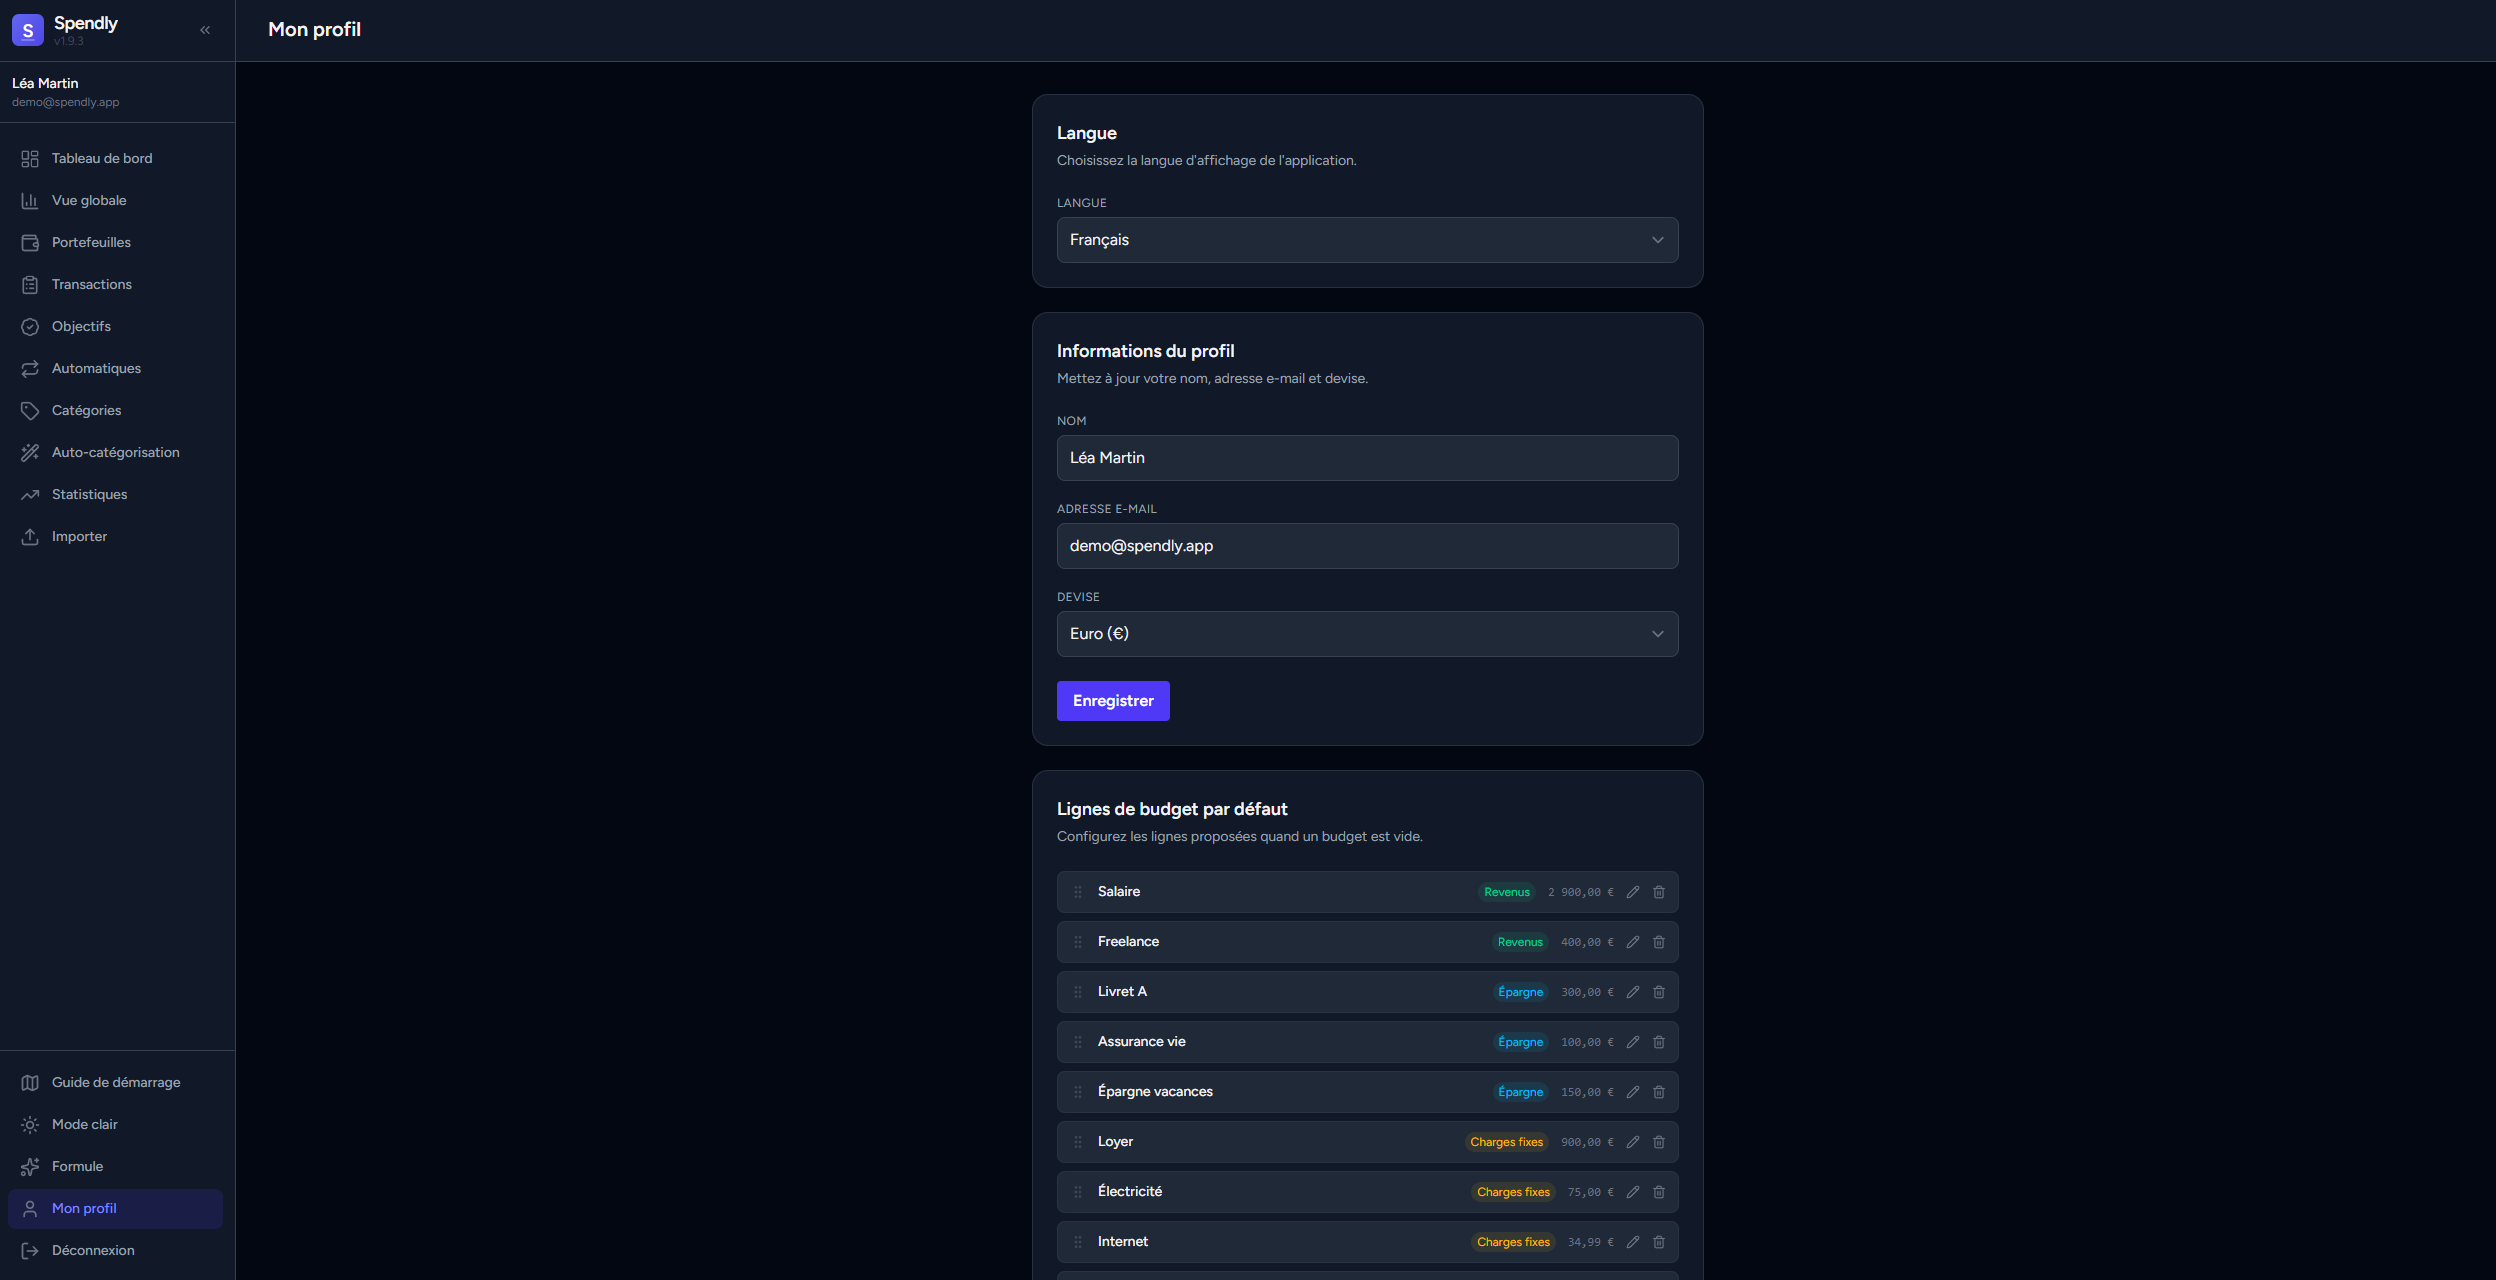
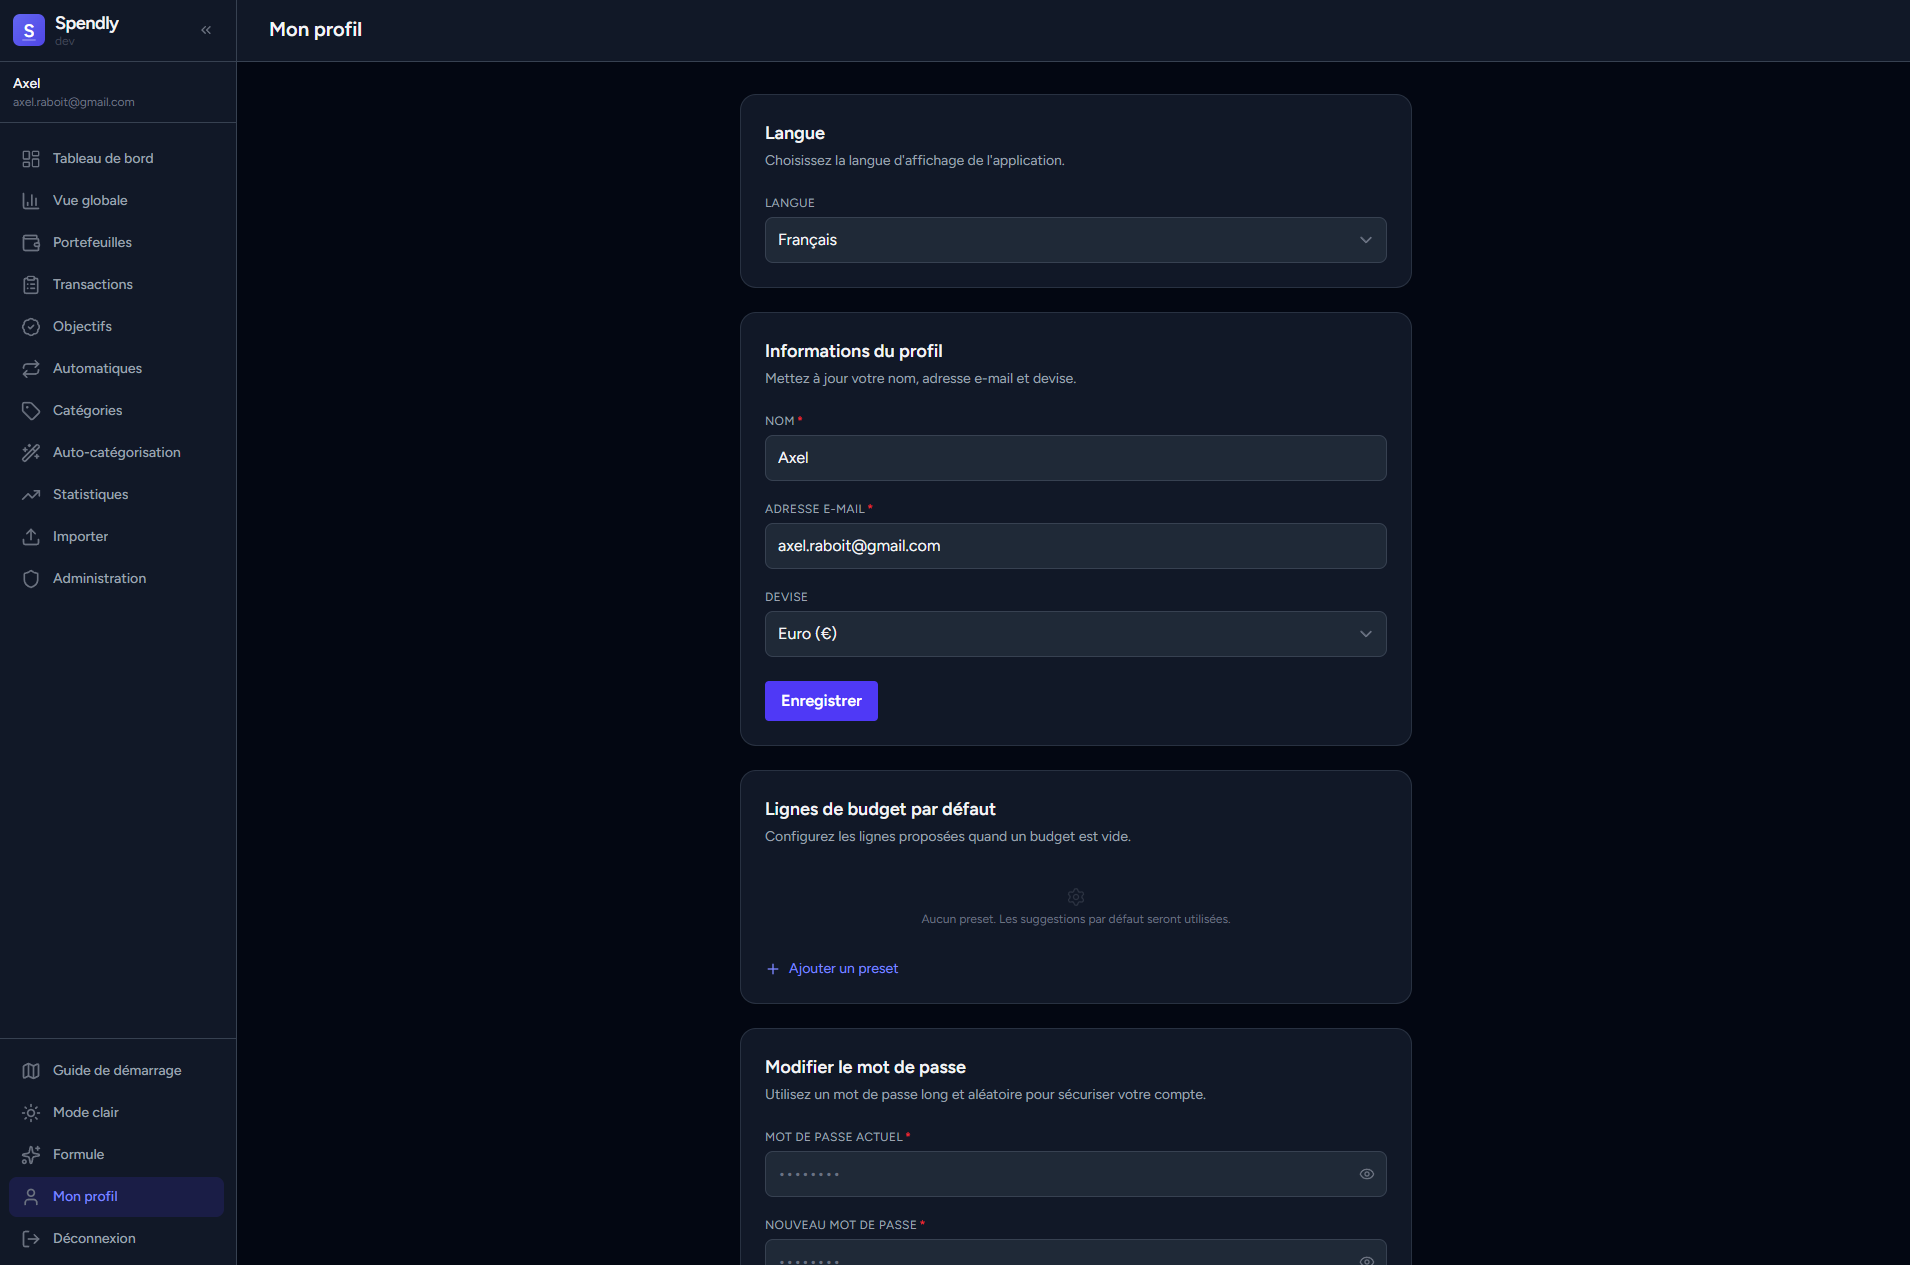
feat: AppInput

diff --git a/resources/js/Pages/Profile/Partials/UpdatePasswordForm.vue b/resources/js/Pages/Profile/Partials/UpdatePasswordForm.vue
@@ -2,16 +2,11 @@
 import { useForm } from '@inertiajs/vue3';
 import { ref } from 'vue';
 import { useI18n } from 'vue-i18n';
-import { Eye, EyeOff } from 'lucide-vue-next';
 
 const { t } = useI18n();
 
 const passwordInput = ref(null);
 const currentPasswordInput = ref(null);
-
-const showCurrent = ref(false);
-const showNew = ref(false);
-const showConfirm = ref(false);
 
 const form = useForm({
     current_password:      '',
@@ -45,64 +40,37 @@ function updatePassword() {
         </header>
 
         <form class="space-y-5" v-on:submit.prevent="updatePassword">
-            <div>
-                <label for="current_password" class="block text-xs text-secondary uppercase tracking-wide mb-1.5">{{ t('profile.password.fieldCurrent') }}</label>
-                <div class="relative">
-                    <input
-                        id="current_password"
-                        ref="currentPasswordInput"
-                        v-model="form.current_password"
-                        :type="showCurrent ? 'text' : 'password'"
-                        autocomplete="current-password"
-                        :placeholder="t('profile.password.fieldPlaceholder')"
-                        class="w-full bg-surface-2 text-primary rounded-lg px-3 py-2.5 pr-10 border border-line focus:border-indigo-500 focus:outline-none"
-                    >
-                    <button type="button" tabindex="-1" class="absolute inset-y-0 right-0 flex items-center pr-3 text-muted hover:text-secondary transition-colors" v-on:click="showCurrent = !showCurrent">
-                        <Eye v-if="!showCurrent" class="w-4 h-4" />
-                        <EyeOff v-else class="w-4 h-4" />
-                    </button>
-                </div>
-                <p v-if="form.errors.current_password" class="mt-1 text-xs text-rose-400">{{ form.errors.current_password }}</p>
-            </div>
+            <AppInput
+                ref="currentPasswordInput"
+                v-model="form.current_password"
+                type="password"
+                :label="t('profile.password.fieldCurrent')"
+                :placeholder="t('profile.password.fieldPlaceholder')"
+                :error="form.errors.current_password"
+                required
+                autocomplete="current-password"
+            />
 
-            <div>
-                <label for="password" class="block text-xs text-secondary uppercase tracking-wide mb-1.5">{{ t('profile.password.fieldNew') }}</label>
-                <div class="relative">
-                    <input
-                        id="password"
-                        ref="passwordInput"
-                        v-model="form.password"
-                        :type="showNew ? 'text' : 'password'"
-                        autocomplete="new-password"
-                        :placeholder="t('profile.password.fieldPlaceholder')"
-                        class="w-full bg-surface-2 text-primary rounded-lg px-3 py-2.5 pr-10 border border-line focus:border-indigo-500 focus:outline-none"
-                    >
-                    <button type="button" tabindex="-1" class="absolute inset-y-0 right-0 flex items-center pr-3 text-muted hover:text-secondary transition-colors" v-on:click="showNew = !showNew">
-                        <Eye v-if="!showNew" class="w-4 h-4" />
-                        <EyeOff v-else class="w-4 h-4" />
-                    </button>
-                </div>
-                <p v-if="form.errors.password" class="mt-1 text-xs text-rose-400">{{ form.errors.password }}</p>
-            </div>
+            <AppInput
+                ref="passwordInput"
+                v-model="form.password"
+                type="password"
+                :label="t('profile.password.fieldNew')"
+                :placeholder="t('profile.password.fieldPlaceholder')"
+                :error="form.errors.password"
+                required
+                autocomplete="new-password"
+            />
 
-            <div>
-                <label for="password_confirmation" class="block text-xs text-secondary uppercase tracking-wide mb-1.5">{{ t('profile.password.fieldConfirm') }}</label>
-                <div class="relative">
-                    <input
-                        id="password_confirmation"
-                        v-model="form.password_confirmation"
-                        :type="showConfirm ? 'text' : 'password'"
-                        autocomplete="new-password"
-                        :placeholder="t('profile.password.fieldPlaceholder')"
-                        class="w-full bg-surface-2 text-primary rounded-lg px-3 py-2.5 pr-10 border border-line focus:border-indigo-500 focus:outline-none"
-                    >
-                    <button type="button" tabindex="-1" class="absolute inset-y-0 right-0 flex items-center pr-3 text-muted hover:text-secondary transition-colors" v-on:click="showConfirm = !showConfirm">
-                        <Eye v-if="!showConfirm" class="w-4 h-4" />
-                        <EyeOff v-else class="w-4 h-4" />
-                    </button>
-                </div>
-                <p v-if="form.errors.password_confirmation" class="mt-1 text-xs text-rose-400">{{ form.errors.password_confirmation }}</p>
-            </div>
+            <AppInput
+                v-model="form.password_confirmation"
+                type="password"
+                :label="t('profile.password.fieldConfirm')"
+                :placeholder="t('profile.password.fieldPlaceholder')"
+                :error="form.errors.password_confirmation"
+                required
+                autocomplete="new-password"
+            />
 
             <div class="flex items-center gap-3 pt-1">
                 <AppButton type="submit" :disabled="form.processing">{{ t('common.save') }}</AppButton>

diff --git a/resources/js/Pages/Profile/Partials/UpdateProfileInformationForm.vue b/resources/js/Pages/Profile/Partials/UpdateProfileInformationForm.vue
@@ -27,34 +27,25 @@ const form = useForm({
         </header>
 
         <form class="space-y-5" v-on:submit.prevent="form.patch(route('profile.update'))">
-            <div>
-                <label for="name" class="block text-xs text-secondary uppercase tracking-wide mb-1.5">{{ t('profile.info.fieldName') }}</label>
-                <input
-                    id="name"
-                    v-model="form.name"
-                    type="text"
-                    required
-                    autofocus
-                    autocomplete="name"
-                    :placeholder="t('profile.info.fieldNamePlaceholder')"
-                    class="w-full bg-surface-2 text-primary rounded-lg px-3 py-2.5 border border-line focus:border-indigo-500 focus:outline-none"
-                >
-                <p v-if="form.errors.name" class="mt-1 text-xs text-rose-400">{{ form.errors.name }}</p>
-            </div>
+            <AppInput
+                v-model="form.name"
+                :label="t('profile.info.fieldName')"
+                :placeholder="t('profile.info.fieldNamePlaceholder')"
+                :error="form.errors.name"
+                required
+                autofocus
+                autocomplete="name"
+            />
 
-            <div>
-                <label for="email" class="block text-xs text-secondary uppercase tracking-wide mb-1.5">{{ t('profile.info.fieldEmail') }}</label>
-                <input
-                    id="email"
-                    v-model="form.email"
-                    type="email"
-                    required
-                    autocomplete="username"
-                    :placeholder="t('profile.info.fieldEmailPlaceholder')"
-                    class="w-full bg-surface-2 text-primary rounded-lg px-3 py-2.5 border border-line focus:border-indigo-500 focus:outline-none"
-                >
-                <p v-if="form.errors.email" class="mt-1 text-xs text-rose-400">{{ form.errors.email }}</p>
-            </div>
+            <AppInput
+                v-model="form.email"
+                type="email"
+                :label="t('profile.info.fieldEmail')"
+                :placeholder="t('profile.info.fieldEmailPlaceholder')"
+                :error="form.errors.email"
+                required
+                autocomplete="username"
+            />
 
             <div>
                 <label for="currency" class="block text-xs text-secondary uppercase tracking-wide mb-1.5">{{ t('profile.info.fieldCurrency') }}</label>

diff --git a/resources/js/components/form/AppInput.vue b/resources/js/components/form/AppInput.vue
@@ -1,0 +1,57 @@
+<script setup>
+import { ref, computed, useAttrs } from 'vue';
+import { Eye, EyeOff } from 'lucide-vue-next';
+
+defineOptions({ inheritAttrs: false });
+
+const props = defineProps({
+    modelValue:  { type: String, default: '' },
+    type:        { type: String, default: 'text' },
+    placeholder: { type: String, default: '' },
+    label:       { type: String, default: '' },
+    error:       { type: String, default: '' },
+    required:    { type: Boolean, default: false },
+});
+
+defineEmits(['update:modelValue']);
+
+const attrs = useAttrs();
+const input = ref(null);
+const revealed = ref(false);
+const isPassword = computed(() => props.type === 'password');
+const inputType = computed(() => isPassword.value && revealed.value ? 'text' : props.type);
+
+defineExpose({ focus: () => input.value?.focus() });
+</script>
+
+<template>
+    <div class="flex flex-col gap-1.5" :class="attrs.class">
+        <label v-if="label" class="block text-xs text-secondary uppercase tracking-wide">
+            {{ label }}<span v-if="required" class="text-red-500 ml-0.5">*</span>
+        </label>
+        <div :class="isPassword ? 'relative' : ''">
+            <input
+                ref="input"
+                :type="inputType"
+                :value="modelValue"
+                :placeholder="placeholder"
+                :required="required"
+                v-bind="{ ...attrs, class: undefined }"
+                class="w-full bg-surface-2 text-primary rounded-lg px-3 py-2.5 border border-line focus:border-indigo-500 focus:outline-none"
+                :class="[{ 'border-red-500 focus:border-red-500': error }, isPassword ? 'pr-10' : '']"
+                v-on:input="$emit('update:modelValue', $event.target.value)"
+            >
+            <button
+                v-if="isPassword"
+                type="button"
+                tabindex="-1"
+                class="absolute inset-y-0 right-0 flex items-center pr-3 text-muted hover:text-secondary transition-colors"
+                v-on:click="revealed = !revealed"
+            >
+                <Eye v-if="!revealed" class="w-4 h-4" />
+                <EyeOff v-else class="w-4 h-4" />
+            </button>
+        </div>
+        <p v-if="error" class="text-xs text-rose-400">{{ error }}</p>
+    </div>
+</template>

diff --git a/resources/js/plugins/components.js b/resources/js/plugins/components.js
@@ -3,6 +3,7 @@ import BarChart from '@/components/charts/BarChart.vue';
 import LineChart from '@/components/charts/LineChart.vue';
 import DoughnutChart from '@/components/charts/DoughnutChart.vue';
 import AppButton from '@/components/ui/AppButton.vue';
+import AppInput from '@/components/form/AppInput.vue';
 import AppModal from '@/components/ui/AppModal.vue';
 import AppPageHeader from '@/components/ui/AppPageHeader.vue';
 import TextInput from '@/components/form/TextInput.vue';
@@ -24,6 +25,7 @@ import StatCard from '@/components/ui/StatCard.vue';
 export default {
     install(app) {
         app.component('AppButton', AppButton);
+        app.component('AppInput', AppInput);
         app.component('AppModal', AppModal);
         app.component('AppPageHeader', AppPageHeader);
         app.component('TextInput', TextInput);

diff --git a/resources/js/components/form/FormField.vue b/resources/js/components/form/FormField.vue
@@ -1,12 +1,15 @@
 <script setup>
 defineProps({
-    label: { type: String, required: true },
+    label:    { type: String, required: true },
+    required: { type: Boolean, default: false },
 });
 </script>
 
 <template>
     <div>
-        <label class="block text-xs text-secondary uppercase tracking-wide mb-1.5">{{ label }}</label>
+        <label class="block text-xs text-secondary uppercase tracking-wide mb-1.5">
+            {{ label }}<span v-if="required" class="text-red-500 ml-0.5">*</span>
+        </label>
         <slot />
     </div>
 </template>

diff --git a/resources/js/components/form/InputLabel.vue b/resources/js/components/form/InputLabel.vue
@@ -3,6 +3,10 @@ defineProps({
     value: {
         type: String,
     },
+    required: {
+        type: Boolean,
+        default: false,
+    },
 });
 </script>
 
@@ -10,5 +14,6 @@ defineProps({
     <label class="block text-xs text-secondary uppercase tracking-wide mb-1.5">
         <span v-if="value">{{ value }}</span>
         <span v-else><slot /></span>
+        <span v-if="required" class="text-red-500 ml-0.5">*</span>
     </label>
 </template>
